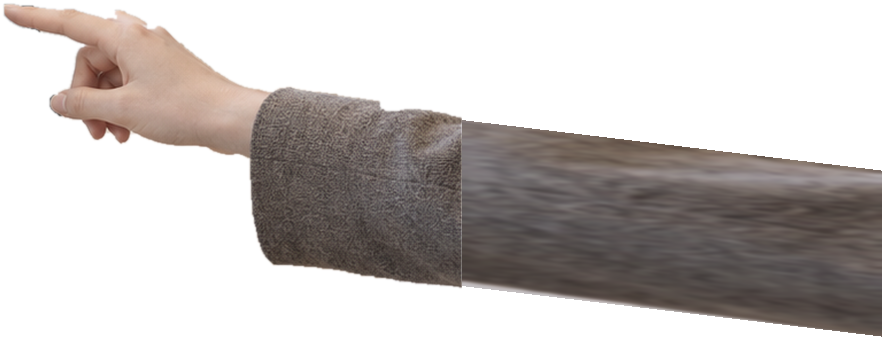
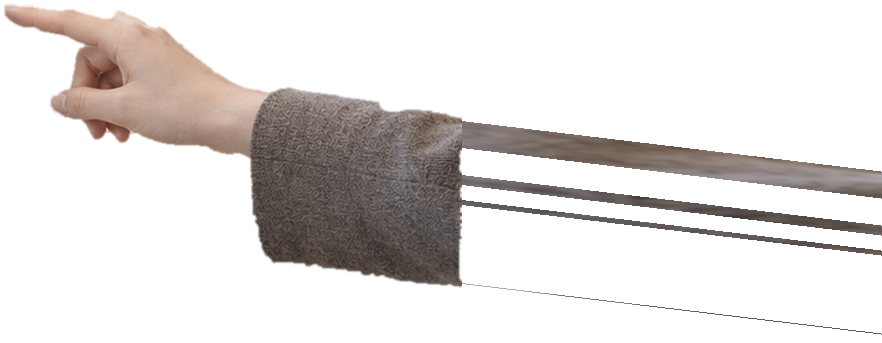
fix(promo): v3.3 레인 H — 손끝 화면 경계 잘림 제거·누끼 경계 정리, 본편 재렌더
- 원인: 클립이 아니라 손 컷아웃(hand-03.png) 알파가 밝은 너클 두 곳을 직선으로 잘라냄,
  배경 섞인 후광(+14~20L)·베젤 티끌·소매 절단선 반투명
- make-hand-layer.py: 경계 정리 단계(티끌 제거·윗선 홈 닫기·윤곽 매끈·거리 램프 알파·defringe)
  + --check 판정 모드. 바탕 plate 바이트 불변, 컷아웃 크기·원점·손끝 불변
- check-hand-motion: 컷아웃 경계 검사(음성 대조 684cbc0 exit 1)·HandLayer 클립 금지·경계 교차 프레임 목록
- hand-stills.py --edge-sheets: 경계 교차 프레임 전수 200% 대조시트
- 본편 main60-v3.3.mp4 재렌더 1800f · sha256 cf32cf71d8aeb71c

diff --git a/promo/tools/make-hand-layer.py b/promo/tools/make-hand-layer.py
@@ -28,7 +28,76 @@ ap.add_argument('--extend', type=int, default=420)
 ap.add_argument('--plate-out', default='public/gen/gen-03-plate.png')
 ap.add_argument('--hand-out', default='public/gen/hand-03.png')
 ap.add_argument('--debug', default=None)
+ap.add_argument('--check', default=None, metavar='HAND_PNG',
+                help='레인 H: 컷아웃 경계 품질만 판정(JSON 출력, 불통과 exit 1). 생성은 하지 않는다')
+ap.add_argument('--origin', default='783,500', help='--check 용: 컷아웃 원점(prompts.json handLayer.origin)')
 A = ap.parse_args()
+
+# 레인 H 판정 한도 — HEAD 684cbc0 컷아웃: 윗선 홈 5px·후광 +14L·베젤 티끌 다수·이음매 반투명 320px
+LIMITS = {"topNotchPx": 2.5, "haloL": 6.0, "darkFringePx": 5, "seamPartialPx": 0}
+
+
+def check_cutout(path, origin, cut_x):
+    """손 컷아웃 경계 지표.
+    topNotchPx   손 부분 윗 윤곽의 좁은 홈 깊이(1D closing, 창 13px) — 너클을 직선으로 잘라낸 자리
+    haloL        가장자리 2px 띠 L 평균 - 안쪽 4~6px 띠 L 평균(배경 섞인 밝은 테두리)
+    darkFringePx 가장자리 띠의 L<90 화소(베젤 잔여 티끌)
+    seamPartialPx 안쪽(가장자리에서 4px 이상)인데 반투명(8<α<247)인 화소(소매 절단 이음매)
+    """
+    im = cv2.imread(path, cv2.IMREAD_UNCHANGED)
+    al = im[:, :, 3].astype(np.float32) / 255
+    hand_w = max(1, cut_x - origin[0] - 60)  # 손 부분(소매 연장 앞 60px 까지)
+    L = cv2.cvtColor(im[:, :, :3], cv2.COLOR_BGR2LAB)[:, :, 0].astype(np.float32)
+    # 윗선 홈
+    op = al[:, :hand_w] > 0.5
+    has = op.any(0)
+    top = np.where(has, op.argmax(0), -1).astype(np.float32)
+    t = -top
+    t[~has] = -1e4
+    r = 6
+    pad = np.pad(t, r, mode='edge')
+    dil = np.array([pad[i:i + 2 * r + 1].max() for i in range(len(t))])
+    pad2 = np.pad(dil, r, mode='edge')
+    clo = np.array([pad2[i:i + 2 * r + 1].min() for i in range(len(t))])
+    depth = np.where(has, clo - t, 0)
+    depth[:r] = 0; depth[-r:] = 0
+    nx = int(np.argmax(depth))
+    # 후광·티끌·이음매
+    transp = (al < 0.08).astype(np.uint8)
+    dt = cv2.distanceTransform(1 - transp, cv2.DIST_L2, 3)
+    xs = np.arange(al.shape[1])[None, :].repeat(al.shape[0], 0)
+    part = xs < hand_w
+    edge = (dt <= 2) & (al >= 0.25) & part
+    inner = (dt >= 4) & (dt <= 6) & part
+    halo = float(L[edge].mean() - L[inner].mean()) if edge.any() and inner.any() else 0.0
+    # 티끌은 피부 가장자리에서만 센다(소매 뜨개는 원래 어둡다) — 안쪽 화소의 채도(a+b)로 피부 구역 판별
+    lab = cv2.cvtColor(im[:, :, :3], cv2.COLOR_BGR2LAB).astype(np.float32)
+    chroma = (lab[:, :, 1] - 128) + (lab[:, :, 2] - 128)
+    core = (dt >= 4).astype(np.float32)
+    skin = cv2.GaussianBlur(chroma * core, (0, 0), 4) / np.maximum(cv2.GaussianBlur(core, (0, 0), 4), 1e-3) > 15
+    dark = int(((L < 90) & edge & skin).sum())
+    a8 = im[:, :, 3]
+    seam = int(((a8 > 8) & (a8 < 247) & (dt >= 4)).sum())
+    res = {
+        "file": path,
+        "topNotchPx": round(float(depth.max()), 2),
+        "topNotchAtPhotoX": int(origin[0] + nx),
+        "haloL": round(halo, 2),
+        "darkFringePx": dark,
+        "seamPartialPx": seam,
+        "limits": LIMITS,
+    }
+    bad = [k for k in LIMITS if res[k] > LIMITS[k]]
+    res["pass"] = not bad
+    res["fail"] = bad
+    return res
+
+
+if A.check:
+    ox_, oy_ = map(int, A.origin.split(','))
+    r_ = check_cutout(A.check, (ox_, oy_), A.cut_x)
+    print(json.dumps(r_, ensure_ascii=False))
+    raise SystemExit(0 if r_["pass"] else 1)
 
 a = cv2.imread(A.src)
 H, W = a.shape[:2]
@@ -97,17 +166,54 @@ plate = (a * (1 - rep[..., None]) + b * rep[..., None]).round().astype(np.uint8)
 plate[rep == 0] = a[rep == 0]
 cv2.imwrite(A.plate_out, plate)
 
+# 4-1) 레인 H(2026-09-30) — 컷아웃 경계 정리. 🔴 바탕(plate)은 위에서 기존 m 로 이미 썼다(바이트 불변),
+#      여기서는 손 층 알파·가장자리 색만 고친다. 사용자 지적: 너클이 직선으로 잘리고 테두리가 하얗게 뜬다.
+L0 = cv2.cvtColor(a, cv2.COLOR_BGR2LAB)[:, :, 0]
+mh = m.copy()
+# a) 베젤 잔여 어두운 티끌: 가장자리 2px 띠에서 L<90 제거(피부·소매 가장자리는 이렇게 어둡지 않다)
+band = (mh > 0) & (cv2.distanceTransform(mh, cv2.DIST_L2, 3) <= 2)
+mh[band & (L0 < 90)] = 0
+# b) 윗선 너클 홈 메우기: 손 부분 윗 윤곽의 좁은 홈(폭<15)을 닫되, 각 열의 맨 윗 화소보다 위쪽만 더한다
+k15 = cv2.getStructuringElement(cv2.MORPH_ELLIPSE, (15, 15))
+cl = cv2.morphologyEx(mh, cv2.MORPH_CLOSE, k15)
+has = mh.any(0)
+topy = np.where(has, mh.argmax(0), H)
+yy = np.arange(H)[:, None].repeat(W, 1)
+xx2 = np.arange(W)[None, :].repeat(H, 0)
+add = (cl > 0) & (mh == 0) & (yy < topy[None, :]) & (xx2 < A.cut_x - 60)
+mh[add] = 1
+# c) 윤곽 매끈하게(계단 제거) → 가장 큰 덩어리·구멍 메우기
+mh = (cv2.GaussianBlur(mh.astype(np.float32), (0, 0), 1.2) > 0.5).astype(np.uint8)
+mh = fill(biggest(mh))
+mh[:, A.cut_x:] = 0
+# d) 알파 = 안쪽 거리 기반 램프(가장자리 1px 을 옅게 → 후광 띠 제거, 1.5px 페더).
+#    🔴 소매 절단선은 오른쪽으로 이어지는 면이다 → 거리 계산 때 절단선 오른쪽을 복제해 이음매가 반투명해지지 않게
+mext = mh.copy()
+mext[:, A.cut_x:A.cut_x + 40] = mh[:, A.cut_x - 1:A.cut_x]
+din = cv2.distanceTransform(mext, cv2.DIST_L2, 5)
+alpha = cv2.GaussianBlur(np.clip((din - 0.6) / 1.5, 0, 1).astype(np.float32), (0, 0), 0.7)  # 계단 완화
+alpha[:, A.cut_x:] = 0
+# e) 색 오염 제거(defringe): 가장자리 3px 안쪽 화소 색을 안쪽(≥3px) 화소의 정규화 흐림 색으로 당긴다
+core = (din >= 3).astype(np.float32)
+num = cv2.GaussianBlur(a.astype(np.float32) * core[..., None], (0, 0), 2.0)
+den = cv2.GaussianBlur(core, (0, 0), 2.0)[..., None]
+inside = np.where(den > 1e-3, num / np.maximum(den, 1e-3), a.astype(np.float32))
+wdf = np.clip((3.0 - din) / 2.0, 0, 1)[..., None] * (mh[..., None] > 0)
+a_h = (a.astype(np.float32) * (1 - wdf) + inside * wdf).round().clip(0, 255).astype(np.uint8)
+
 # 5) 손 컷아웃 + 소매 연장(거울 반복)
-alpha = cv2.GaussianBlur(m.astype(np.float32), (0, 0), 0.8)
+#    (bbox·손끝은 기존 m 기준 — prompts.json handLayer 원점·크기·손끝 불변)
 ys, xs = np.nonzero(m)
 bx0, by0, bx1, by1 = xs.min() - 4, ys.min() - 4, A.cut_x, ys.max() + 4
-rgba = np.dstack([a[by0:by1, bx0:bx1], (alpha[by0:by1, bx0:bx1] * 255).round().astype(np.uint8)])
+rgba = np.dstack([a_h[by0:by1, bx0:bx1],(alpha[by0:by1, bx0:bx1] * 255).round().astype(np.uint8)])
 blk = 60
 # 소매 위·아래 경계의 기울기(절단면 앞 80px 에서 측정) — 연장부가 팔 방향으로 이어지게
 def band(col):
     yy = np.nonzero(col > 128)[0]
     return (yy.min(), yy.max()) if len(yy) else (0, 0)
-t0, b0_ = band(rgba[:, -80, 3]); t1, b1 = band(rgba[:, -1, 3])
+# 기울기는 레인 V 의 알파(기존 m 의 0.8px 흐림)로 잰다 — 연장부 기하·컷아웃 크기(prompts.json size) 불변
+alpha_v = (cv2.GaussianBlur(m.astype(np.float32), (0, 0), 0.8)[by0:by1, bx0:bx1] * 255).round()
+t0, b0_ = band(alpha_v[:, -80]); t1, b1 = band(alpha_v[:, -1])
 slope = ((t1 - t0) + (b1 - b0_)) / 2 / 79.0
 hh = rgba.shape[0] + int(abs(slope) * A.extend) + 2
 rgba = np.concatenate([rgba, np.zeros((hh - rgba.shape[0],) + rgba.shape[1:], np.uint8)], 0)

diff --git a/promo/tools/hand-stills.py b/promo/tools/hand-stills.py
@@ -2,8 +2,47 @@
   python tools/hand-stills.py out/check/v33v-fill.mp4 fill 6,22,42,94
 손끝 = 왼쪽 칸(1114px)의 피부색 최대 성분의 가장 왼쪽 점. 크롭 = 손끝 중심 400x260 → 2배.
 """
-import sys, subprocess, os
+import sys, subprocess, os, json
 import numpy as np, cv2
+
+if len(sys.argv) > 1 and sys.argv[1] == '--edge-sheets':
+    # 레인 H(2026-09-30): 손이 화면 경계를 넘는 프레임 **전부**(check-hand-motion.mjs 가 out/check/v33v-motion.json
+    # edgeCross 에 쓴 본편 프레임 번호)를 본편에서 읽어, 손끝~너클 200% 크롭을 24장씩 대조시트로 묶는다.
+    # 원본 크기 스틸은 8프레임마다 1장(전수 원본 PNG 는 수백 MB 라 시트로 대신한다).
+    #   python tools/hand-stills.py --edge-sheets out/main60-v3.3.mp4 out/check/v33h
+    video, outdir = sys.argv[2], sys.argv[3]
+    os.makedirs(outdir, exist_ok=True)
+    ec = json.load(open('out/check/v33v-motion.json', encoding='utf-8'))['edgeCross']
+    want = sorted({f for v in ec.values() for f in v['main60']})
+    cap = cv2.VideoCapture(video); i = 0; tiles = []; full = 0; ws = set(want)
+    while True:
+        ok, fr = cap.read()
+        if not ok: break
+        if i in ws:
+            L = fr[:, :1114].astype(np.int16); b, g, r = L[..., 0], L[..., 1], L[..., 2]
+            skin = ((r > 150) & (r - b > 28) & (r > g) & (g > b) & (r - g < 60)).astype(np.uint8)
+            skin = cv2.morphologyEx(skin, cv2.MORPH_OPEN, np.ones((5, 5), np.uint8))
+            n, lab, st, _ = cv2.connectedComponentsWithStats(skin)
+            if n >= 2 and st[1:, 4].max() >= 1500:
+                k = 1 + np.argmax(st[1:, 4]); ys, xs = np.nonzero(lab == k); j = np.argmin(xs); tx, ty = int(xs[j]), int(ys[j])
+            else:
+                tx, ty = 500, 500
+            x0 = min(max(0, tx - 60), 1114 - 320); y0 = min(max(0, ty - 90), 1080 - 200)
+            t = cv2.resize(fr[y0:y0 + 200, x0:x0 + 320], None, fx=2, fy=2, interpolation=cv2.INTER_CUBIC)
+            cv2.putText(t, f'main60 f{i}', (8, 30), cv2.FONT_HERSHEY_SIMPLEX, 0.9, (0, 0, 255), 2)
+            tiles.append(t)
+            if (i - want[0]) % 8 == 0:
+                cv2.imwrite(os.path.join(outdir, f'v33h-edge-full-f{i:04d}.png'), fr); full += 1
+        i += 1
+    sheets = 0
+    for s in range(0, len(tiles), 24):
+        grp = tiles[s:s + 24]
+        while len(grp) % 4: grp.append(np.zeros_like(tiles[0]))
+        rows = [np.hstack(grp[r:r + 4]) for r in range(0, len(grp), 4)]
+        cv2.imwrite(os.path.join(outdir, f'v33h-edge-sheet-{s // 24:02d}.jpg'), np.vstack(rows), [cv2.IMWRITE_JPEG_QUALITY, 88]); sheets += 1
+    print(f'edge frames {len(tiles)}/{len(want)} · sheets {sheets} · full stills {full}')
+    raise SystemExit(0 if len(tiles) == len(want) else 1)
+
 video, name, frames = sys.argv[1], sys.argv[2], [int(x) for x in sys.argv[3].split(',')]
 # 레인 V2: 선택 인자 — 파일 접두어(기본 v33v) · 영상 첫 프레임의 장면 로컬 번호(구간 렌더가 장면 중간에서 시작할 때)
 prefix = sys.argv[4] if len(sys.argv) > 4 else 'v33v'
